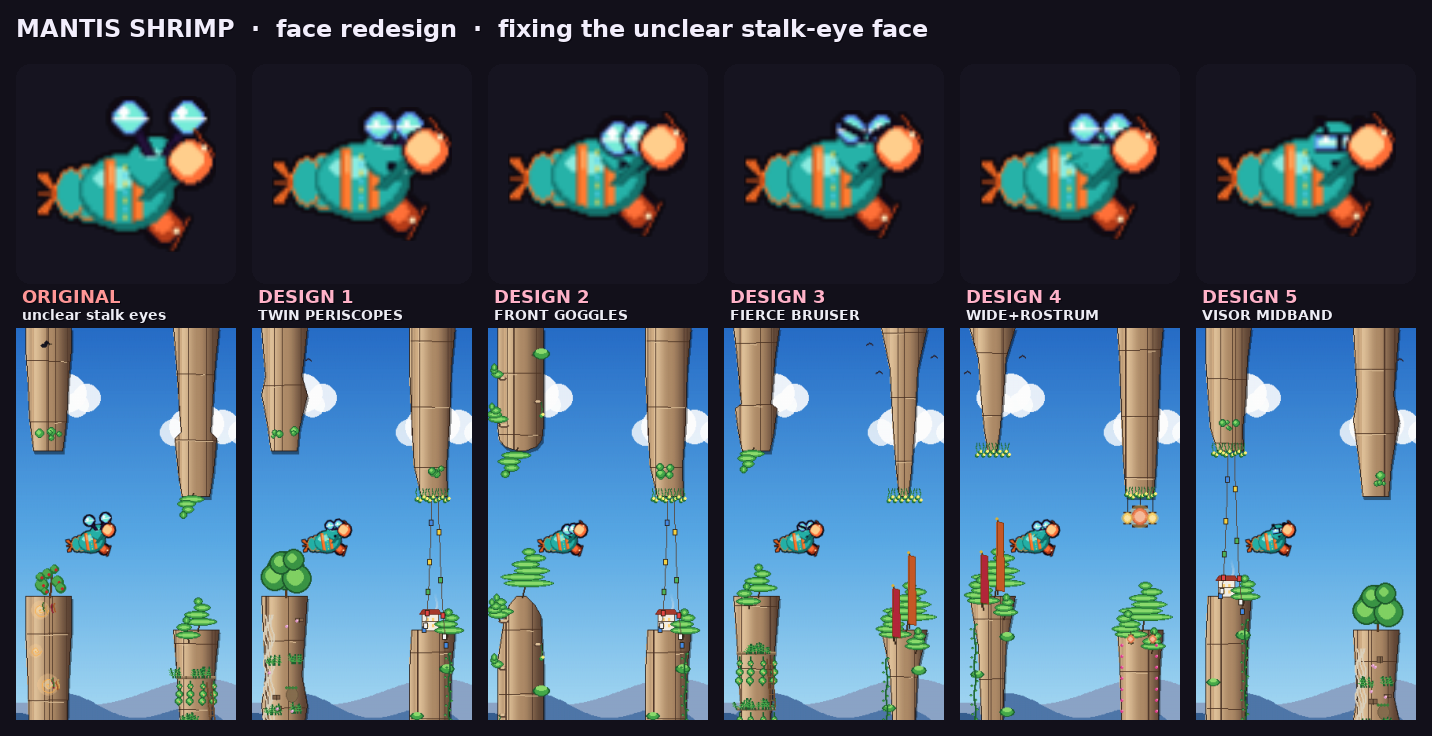
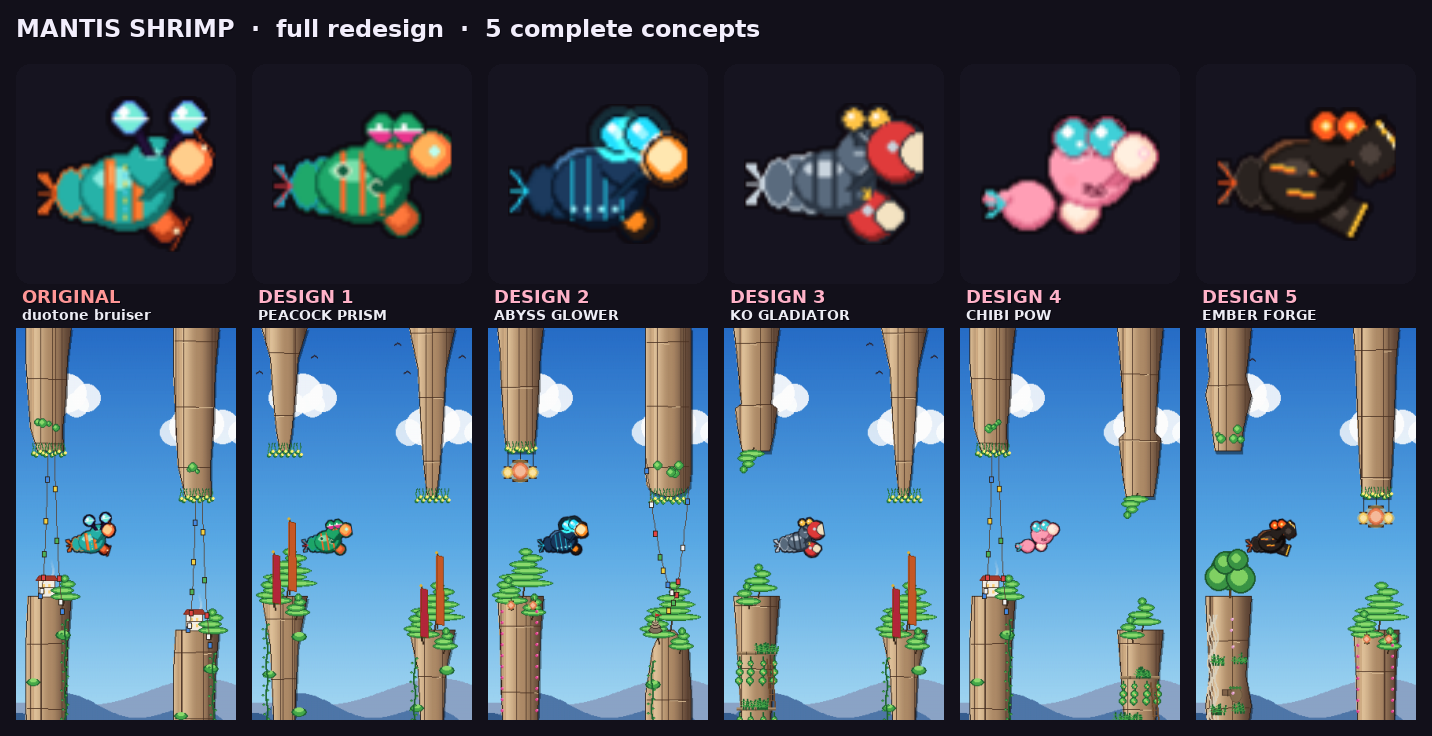
mantis shrimp full redesign R2 + comparison: art-director fixes (day-sky body anchors, club reads), final 5-concept figure

diff --git a/tools/mantis_shrimp_candidates/design_2.py b/tools/mantis_shrimp_candidates/design_2.py
@@ -9,14 +9,15 @@ from tools.mantis_shrimp_candidates._chassis import (
     orb_eye, stalk, tail_fan, glow_dot, shade, BCX, BCY, HCX, HCY, CROWN_Y,
 )
 
-BODY  = (10, 20, 36)            # blue-black
-BODY_D = (5, 11, 22)
+BODY  = (28, 58, 94)            # deep blue (a real value anchor for day sky)
+BODY_D = (10, 22, 40)
+BODY_R = (70, 120, 168)         # lit top-edge rim
 SEG   = (19, 49, 78)            # segment shade
 CYAN  = (35, 224, 255)          # bioluminescent glow
 CYAN_C = (155, 246, 255)        # glow core
 HOT   = (255, 138, 30)          # hot club-tip
 HOT_C = (255, 231, 176)
-RIM   = (5, 11, 22)
+RIM   = (8, 16, 30)
 
 
 def build(wing_angle_deg):
@@ -35,9 +36,11 @@ def build(wing_angle_deg):
     # Dark tail-fan with cyan rib-glow.
     tail_fan(surf, bcx - 7, bcy + 1, body=BODY, body_d=BODY_D, edge=SEG, rib=CYAN)
 
-    # Blue-black carapace.
+    # Deep-blue carapace with a lit top-edge rim so the silhouette reads on
+    # bright day sky (not only by glow).
     aaellipse(surf, BODY_D, (bcx + 1, bcy + 1), 17, 14)
     aaellipse(surf, BODY, (bcx, bcy), 16, 13)
+    pygame.draw.arc(surf, BODY_R, (bcx - 16, bcy - 14, 32, 24), 0.5, 2.7, 2)
     # Electric-cyan seam lines tracing the segment joints (glow pulses with strike).
     seam = shade(CYAN, 0.7 + 0.3 * s)
     for off in (-9, -3, 3, 9):
@@ -56,14 +59,15 @@ def build(wing_angle_deg):
         base = (hcx + sgn * 2, hcy - 3)
         tip = (tx, hcy - 9 + rcy)
         stalk(surf, base, tip, rim=RIM, col=SEG)
-        orb_eye(surf, tip[0], tip[1], 5, core=CYAN, rim=RIM, glow=CYAN)
+        orb_eye(surf, tip[0], tip[1], 6, core=CYAN, rim=RIM, glow=CYAN)
         pygame.draw.circle(surf, CYAN_C, (tip[0], tip[1]), 2)
 
-    # Lead club — dark hammer whose tip flares orange→white-hot on the punch.
+    # Lead club — a SOLID painted hot core (reads at 1× without glow) that flares
+    # white-hot on the punch, plus the night glow.
+    nf = (nf[0] + 2, nf[1])
     arm(surf, sh, ne, RIM, SEG); arm(surf, ne, nf, RIM, SEG)
-    tipcol = HOT_C if s > 0.6 else HOT
     glow_dot(surf, nf[0], nf[1], int(3 + s * 3), HOT)
-    round_club(surf, nf, 8, rim=RIM, col=(54, 32, 20), hi=tipcol,
+    round_club(surf, nf, 8, rim=RIM, col=HOT, hi=HOT_C if s > 0.6 else (255, 170, 70),
                spark=HOT_C)
     return surf
 

diff --git a/tools/mantis_shrimp_candidates/design_4.py b/tools/mantis_shrimp_candidates/design_4.py
@@ -29,16 +29,18 @@ def build(wing_angle_deg):
     # Tiny tapering body + heart tail-fan behind.
     aaellipse(surf, CORAL_D, (bcx - 6, bcy + 1), 9, 8)
     aaellipse(surf, CORAL, (bcx - 6, bcy), 8, 7)
-    # Heart-ish tail (two small lobes + point).
+    # Little teal heart tail-fan so it reads as a shrimp, not an octopus.
     for dx in (-2, 2):
         pygame.draw.circle(surf, CORAL_D, (bcx - 16 + dx, bcy - 1), 3)
         pygame.draw.circle(surf, CORAL, (bcx - 16 + dx, bcy - 2), 2)
-    pygame.draw.polygon(surf, CORAL_D, [(bcx - 19, bcy), (bcx - 14, bcy + 5), (bcx - 11, bcy)])
+    for dy in (-4, 0, 4):
+        pygame.draw.polygon(surf, TEAL,
+                            [(bcx - 14, bcy), (bcx - 20, bcy + dy), (bcx - 18, bcy + dy)])
 
-    # Rear mini mitten (pat-pat, bounces with the flap).
+    # Rear mitten (bigger + rim-outlined so the club reads at 40px).
     pat = int(s * 2)
     arm(surf, (bcx + 4, bcy + 3), (bcx + 9, bcy + 5 - pat), RIM, CORAL_D)
-    round_club(surf, (bcx + 11, bcy + 4 - pat), 4, rim=RIM, col=CREAM, hi=(255, 240, 224))
+    round_club(surf, (bcx + 11, bcy + 4 - pat), 6, rim=RIM, col=CREAM, hi=(255, 240, 224))
 
     # ── HERO: oversized round head.
     aaellipse(surf, CORAL_D, (hcx + 1, hcy + 1), 14, 13)
@@ -61,9 +63,9 @@ def build(wing_angle_deg):
         pygame.draw.circle(surf, (255, 255, 255), (tip[0] - 2, tip[1] - 2), 2)
         pygame.draw.circle(surf, (255, 255, 255), (tip[0] + 2, tip[1] + 2), 1)
 
-    # Near mini mitten (the eager pat).
-    arm(surf, (hcx + 6, hcy + 6), (hcx + 11, hcy + 2 - pat), RIM, CORAL_D)
-    round_club(surf, (hcx + 13, hcy - 1 - pat), 5, rim=RIM, col=CREAM, hi=(255, 240, 224))
+    # Near mitten — bigger so the "two clubs up front" silhouette survives 40px.
+    arm(surf, (hcx + 6, hcy + 6), (hcx + 12, hcy + 1 - pat), RIM, CORAL_D, w=4)
+    round_club(surf, (hcx + 15, hcy - 2 - pat), 7, rim=RIM, col=CREAM, hi=(255, 240, 224))
     if s > 0.6:
         pygame.draw.circle(surf, (255, 200, 220), (hcx + 18, hcy - 4), 2, 1)
     return surf

diff --git a/tools/mantis_shrimp_candidates/design_5.py b/tools/mantis_shrimp_candidates/design_5.py
@@ -41,15 +41,17 @@ def build(wing_angle_deg):
     # Dark tail-fan with glowing orange rib edges.
     tail_fan(surf, bcx - 7, bcy + 1, body=ROCK, body_d=ROCK_D, edge=ROCK_H, rib=LAVA)
 
-    # Charcoal carapace.
+    # Charcoal carapace with a warm lit top-rim so the silhouette reads on bright
+    # day sky without depending on the glow.
     aaellipse(surf, ROCK_D, (bcx + 1, bcy + 1), 17, 14)
     aaellipse(surf, ROCK, (bcx, bcy), 16, 13)
     aaellipse(surf, ROCK_H, (bcx - 3, bcy - 4), 7, 3)
-    # Branching lava-crack veins along the back + seams (pulse with the strike).
-    _vein(surf, [(bcx - 13, bcy - 2), (bcx - 6, bcy - 6), (bcx + 2, bcy - 4),
-                 (bcx + 9, bcy - 8)], pulse)
-    _vein(surf, [(bcx - 4, bcy - 4), (bcx - 2, bcy + 3), (bcx + 4, bcy + 8)], pulse)
-    _vein(surf, [(bcx + 2, bcy - 4), (bcx + 7, bcy + 2)], pulse)
+    pygame.draw.arc(surf, (122, 74, 48), (bcx - 16, bcy - 14, 32, 24), 0.5, 2.7, 2)
+    # ONE bold horizontal lava crack per segment (branching veins read as noise
+    # at 40px); they pulse brighter with the strike.
+    _vein(surf, [(bcx - 12, bcy - 5), (bcx - 4, bcy - 4)], pulse)
+    _vein(surf, [(bcx - 6, bcy + 4), (bcx + 3, bcy + 5)], pulse)
+    _vein(surf, [(bcx + 2, bcy - 3), (bcx + 10, bcy - 2)], pulse)
     pygame.draw.ellipse(surf, ROCK_D, (bcx - 16, bcy - 13, 32, 26), 1)
 
     # Head.
@@ -66,7 +68,9 @@ def build(wing_angle_deg):
         pygame.draw.circle(surf, LAVA_Y, (tip[0], tip[1]), 2)
         pygame.draw.circle(surf, HOT, (tip[0], tip[1]), 1)
 
-    # Lead anvil — white-hot face on the punch + rising ember sparks.
+    # Lead anvil — pushed forward to break the body outline; white-hot face on
+    # the punch + rising ember sparks.
+    nf = (nf[0] + 2, nf[1])
     arm(surf, sh, ne, RIM, ROCK_D, w=4); arm(surf, ne, nf, RIM, ROCK_D, w=4)
     glow_dot(surf, nf[0], nf[1], int(3 + s * 3), LAVA)
     face = HOT if s > 0.6 else LAVA_Y

diff --git a/tools/mantis_shrimp_candidates/design_1.py b/tools/mantis_shrimp_candidates/design_1.py
@@ -14,12 +14,12 @@ BODY_D = (12, 92, 62)           # dark green rim/anchor
 BODY_H = (120, 224, 170)
 RIM   = (12, 92, 62)
 SOM   = (255, 106, 43)          # orange-red somite edge
-BLUE  = (43, 199, 232)          # tail-fan blue
+BLUE  = (30, 159, 190)          # tail-fan blue (desaturated so the eye stays focal)
 RED   = (224, 60, 70)           # setae rib
 MAG   = (232, 51, 140)          # eye magenta
 HI    = (255, 244, 214)
 CLUB  = (255, 120, 60)
-CLUB_H = (255, 206, 150)
+CLUB_H = (255, 179, 90)         # warm-light knuckle so the punch separates
 
 
 def build(wing_angle_deg):
@@ -44,8 +44,9 @@ def build(wing_angle_deg):
     # Orange-red somite trailing edges (3 bands).
     for off in (-7, 0, 7):
         pygame.draw.line(surf, SOM, (bcx + off, bcy - 11), (bcx + off, bcy + 11), 2)
-    # Leopard spots: dark blob + white ring (≥3px).
-    for sx, sy in ((bcx - 6, bcy - 5), (bcx + 4, bcy + 3), (bcx + 9, bcy - 4)):
+    # Leopard spots — just TWO, each big enough (dark core + white ring) to
+    # survive 40px instead of turning to mud.
+    for sx, sy in ((bcx - 6, bcy - 4), (bcx + 6, bcy + 2)):
         pygame.draw.circle(surf, HI, (sx, sy), 3, 1)
         pygame.draw.circle(surf, BODY_D, (sx, sy), 2)
     pygame.draw.ellipse(surf, BODY_D, (bcx - 16, bcy - 13, 32, 26), 1)
@@ -61,7 +62,8 @@ def build(wing_angle_deg):
         stalk(surf, base, tip, rim=RIM, col=SOM)
         orb_eye(surf, tip[0], tip[1], 5, core=BODY, rim=RIM, mid=MAG, band=True)
 
-    # Lead club — the haymaker, in front.
+    # Lead club — the haymaker, nudged forward so it breaks the body outline.
+    nf = (nf[0] + 2, nf[1])
     arm(surf, sh, ne, RIM, BODY_D); arm(surf, ne, nf, RIM, BODY_D)
     round_club(surf, nf, 8, rim=RIM, col=CLUB, hi=CLUB_H,
                spark=(190, 255, 240) if s > 0.6 else None)

diff --git a/tools/mantis_shrimp_candidates/design_3.py b/tools/mantis_shrimp_candidates/design_3.py
@@ -51,11 +51,9 @@ def build(wing_angle_deg):
     aaellipse(surf, STEEL_D, (bcx + 1, bcy + 1), 15, 12)
     aaellipse(surf, STEEL, (bcx, bcy), 14, 11)
     aaellipse(surf, STEEL_H, (bcx - 3, bcy - 4), 7, 3)
-    # Three armour plate seams + rivet dots.
+    # Three clear armour-plate seams (rivets dropped — pure noise at 40px).
     for off in (-7, 0, 7):
         pygame.draw.line(surf, STEEL_D, (bcx + off, bcy - 10), (bcx + off, bcy + 10), 2)
-        pygame.draw.circle(surf, STEEL_H, (bcx + off, bcy - 8), 1)
-        pygame.draw.circle(surf, STEEL_H, (bcx + off, bcy + 8), 1)
     # Gold collar plate at the neck.
     pygame.draw.line(surf, GOLD, (bcx + 10, bcy - 8), (bcx + 12, bcy + 6), 3)
     pygame.draw.ellipse(surf, STEEL_D, (bcx - 14, bcy - 11, 28, 22), 1)
@@ -63,8 +61,9 @@ def build(wing_angle_deg):
     # Head + armoured visor eyes.
     aaellipse(surf, STEEL_D, (hcx, hcy + 1), 10, 9)
     aaellipse(surf, STEEL, (hcx - 1, hcy), 9, 8)
+    # Raised periscope stalks so the paired-eye mantis read is unmistakable.
     for sgn, tx in ((-1, hcx - 4), (1, hcx + 5)):
-        tip = (tx, hcy - 8 + rcy)
+        tip = (tx, hcy - 12 + rcy)
         arm(surf, (hcx + sgn * 2, hcy - 3), tip, RIM, STEEL_D, w=3)
         orb_eye(surf, tip[0], tip[1], 4, core=AMBER, rim=RIM)
 

diff --git a/tools/render_mantis_shrimp_compare.py b/tools/render_mantis_shrimp_compare.py
@@ -18,12 +18,12 @@ pygame.init()
 import tools.ninja_render as nr
 
 COLUMNS = [
-    ("ORIGINAL", "unclear stalk eyes", "skin_mantis_shrimp"),
-    ("DESIGN 1", "TWIN PERISCOPES", "design_1"),
-    ("DESIGN 2", "FRONT GOGGLES", "design_2"),
-    ("DESIGN 3", "FIERCE BRUISER", "design_3"),
-    ("DESIGN 4", "WIDE+ROSTRUM", "design_4"),
-    ("DESIGN 5", "VISOR MIDBAND", "design_5"),
+    ("ORIGINAL", "duotone bruiser", "skin_mantis_shrimp"),
+    ("DESIGN 1", "PEACOCK PRISM", "design_1"),
+    ("DESIGN 2", "ABYSS GLOWER", "design_2"),
+    ("DESIGN 3", "KO GLADIATOR", "design_3"),
+    ("DESIGN 4", "CHIBI POW", "design_4"),
+    ("DESIGN 5", "EMBER FORGE", "design_5"),
 ]
 
 PANEL_W, PANEL_H = 220, 392
@@ -52,7 +52,7 @@ def main():
     sheet = pygame.Surface((sheet_w, sheet_h))
     sheet.fill((18, 16, 26))
 
-    _label(sheet, "MANTIS SHRIMP  ·  face redesign  ·  fixing the unclear stalk-eye face",
+    _label(sheet, "MANTIS SHRIMP  ·  full redesign  ·  5 complete concepts",
            pad, 14, 24, (242, 238, 252))
 
     for i, (tag, name, spec) in enumerate(COLUMNS):
